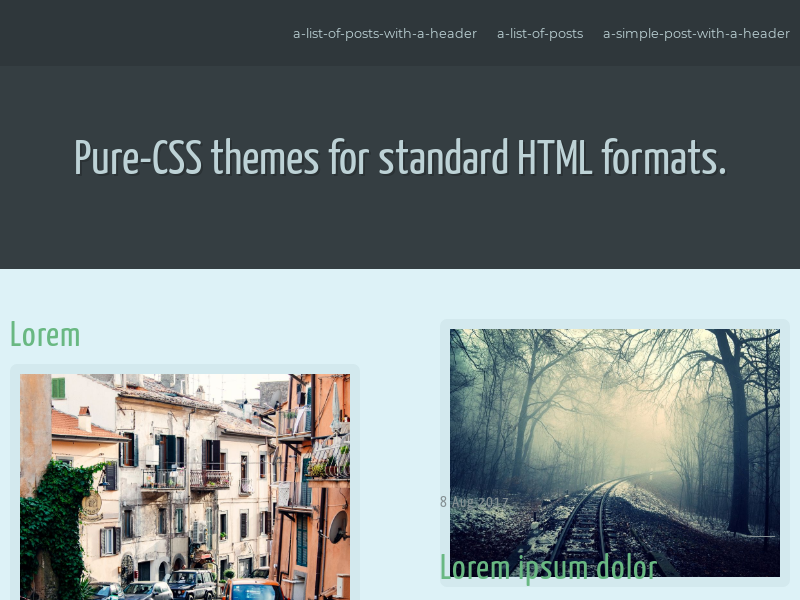
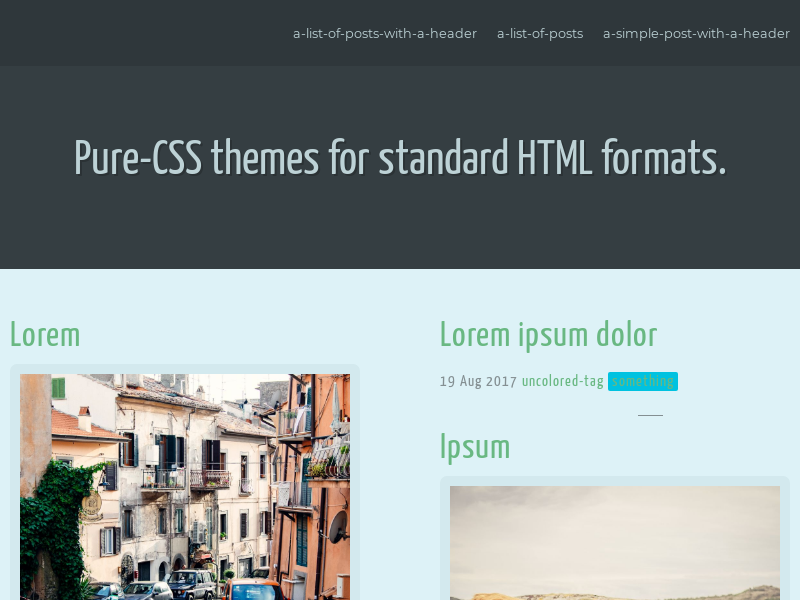
fix column layout on numa.

Changed region(s): [[0.5312, 0.54, 1.0, 1.0]]

diff --git a/themes/numa/theme.css b/themes/numa/theme.css
@@ -217,8 +217,7 @@ body > main > section > ul {
   }
 }
 body > main > section > ul > li {
-  display: flex;
-  flex-direction: column;
+  display: inline-block;
 }
 body > main > section > ul > li:not(:last-child)::after {
   content: ' ';
